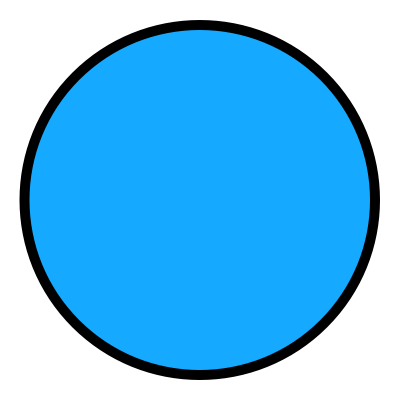
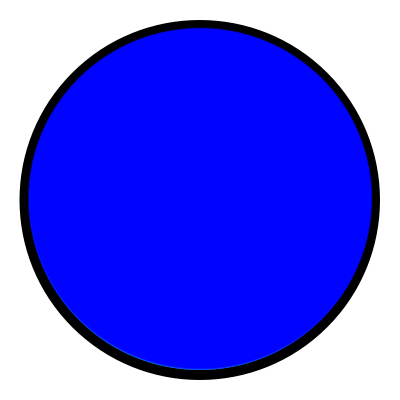
fix:some bugs in chart generating and color of light

diff --git a/single.php b/single.php
@@ -69,7 +69,7 @@
   </div>
 </div>
 <script>
-  let mapstate = {"map":"normal","area":[],"point":[]};
+  let mapstate = {"map":"normal","area":[],"point":[],"color":""};
   $("#sel1").on("change",function(){
     $("#sel2").empty();
     $("#sel3").empty();
@@ -111,17 +111,19 @@
         let week_date = [];
         let week_date_short= [];
         let inputData = [];
-        for (var i = 0; i < splitdata[0].split(';').length; i++) {
-          switch (splitdata[0].split(';')[i]) {
+        for (let k = 0; k < splitdata[0].split(';').length; k++) {
+          switch (splitdata[0].split(';')[k]) {
             case 'A':  //pie
               //  F;A,月,縣市,1.安全2.警戒預備3.嚴重警戒4.高溫警戒,[嚴重警戒=37][安全=0.1][寒冷危險=59.6][警界預備=3.3]
               cleanCanvas();
+              mapstate.color = dynamicColors();
               let pie_data = {
                 Type: "A",
                 Valve:{
                   datasets: [{
                     data: data.substring(data.indexOf("[")+1, data.length-1).split("][").map((item => parseFloat(item.substring(item.indexOf("=")+1, item.length)))),
                     backgroundColor: [
+                      mapstate.color,
                       dynamicColors(),
                       dynamicColors(),
                       dynamicColors()
@@ -144,7 +146,8 @@
                 }
               }
               week_date_short = week_date.map((item) => item.substring(4,7).concat(item.substring(8,10)));
-              barChart({
+              mapstate.color = dynamicColors();
+              let bar_data = {
                 Type: "B",
                 WaterStorage: {
                   yAxisID: "萬噸",
@@ -152,7 +155,7 @@
                   datasets: [
                     {
                     label: $("#sel3 :selected").text(),
-                    backgroundColor: 'green',
+                    backgroundColor: mapstate.color,
                     borderColor: 'white',
                     data: data.substring( data.indexOf("[[")+2, data.indexOf("]")-1 ).split(",").map((item) => parseFloat(item))
                     },
@@ -173,7 +176,8 @@
                 StartDate,
                 Location: $("#sel3 :selected").text(),
                 TimeScale: splitdata[1],
-              },0)
+              };
+              barChart(bar_data,0)
               break;
             case 'C':
               // bar by unit
@@ -202,7 +206,7 @@
                 }
                 line_datasets[i] = lineData_single;
               }
-
+              mapstate.color = line_datasets[0].borderColor;
               // console.log(line_datasets);
               lineChart({
                 Type: "D",
@@ -231,7 +235,6 @@
               // line by unit
               break;
             case 'F':  //normal map
-              // cleanMaps();
               if (mapstate.map !== 'normal') {
                 cleanMaps();
                 normalMap();
@@ -244,13 +247,16 @@
               //   normalMap_point(spatialType);
               // }
               changemapcolor(mapstate,'none');
-              mapstate = {"map":"normal","area":[],"point":[]};
+              mapstate = {"map":"normal","area":[],"point":[],"color":mapstate.color};
+              if(splitdata[3] === "顏色") {
+                mapstate.color = data.substring(data.indexOf("[[")+2, data.indexOf("]]")).split(",")[0];
+              }
               if(spatialType === "縣市"){
                 mapstate.area.push($("#sel3 :selected").text());
               } else {
                 mapstate.point.push($("#sel3 :selected").text());
               }
-              changemapcolor(mapstate,'red');
+              changemapcolor(mapstate, mapstate.color);
               break;
             case 'G':  //raster map
               cleanMaps();
@@ -278,7 +284,7 @@
               cleanCanvas();
               lightChart({
                 Type: "I",
-                Light: data.substring( data.indexOf("[")+1, data.indexOf("]") ).split(","),
+                Light: data.substring( data.indexOf("[[")+2, data.indexOf("]") ).split(","),
                 Timescale: splitdata[2]
               },0)
               break;
